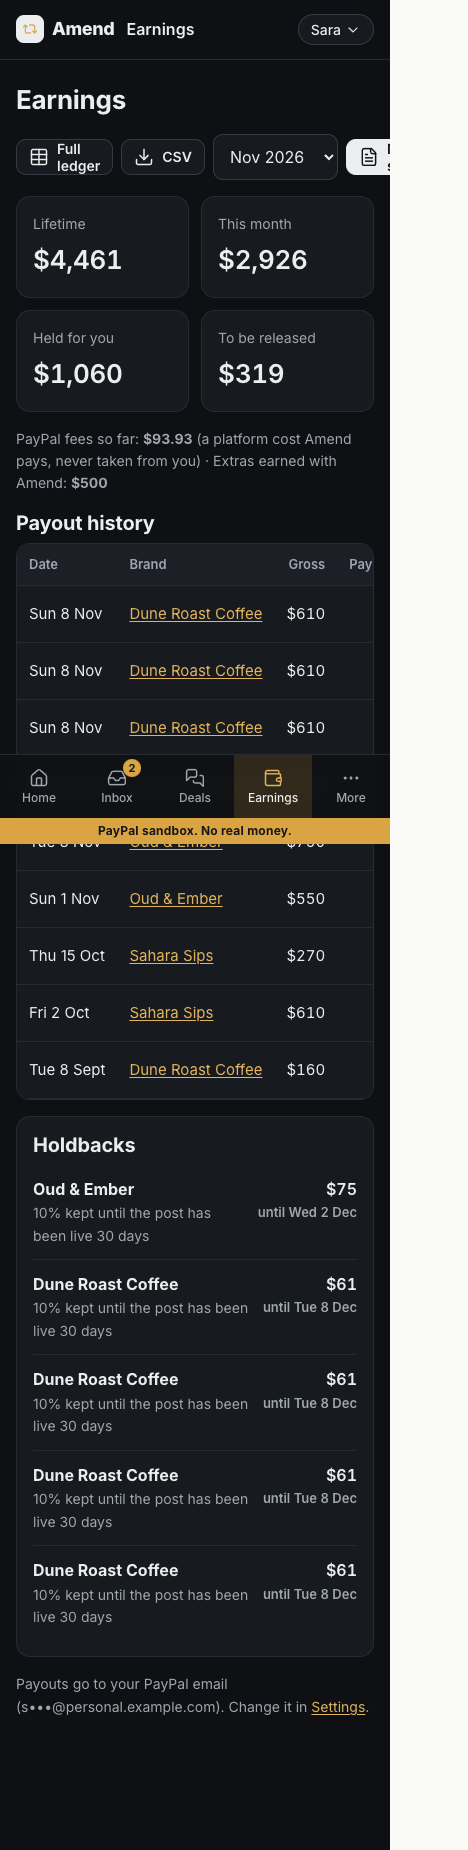
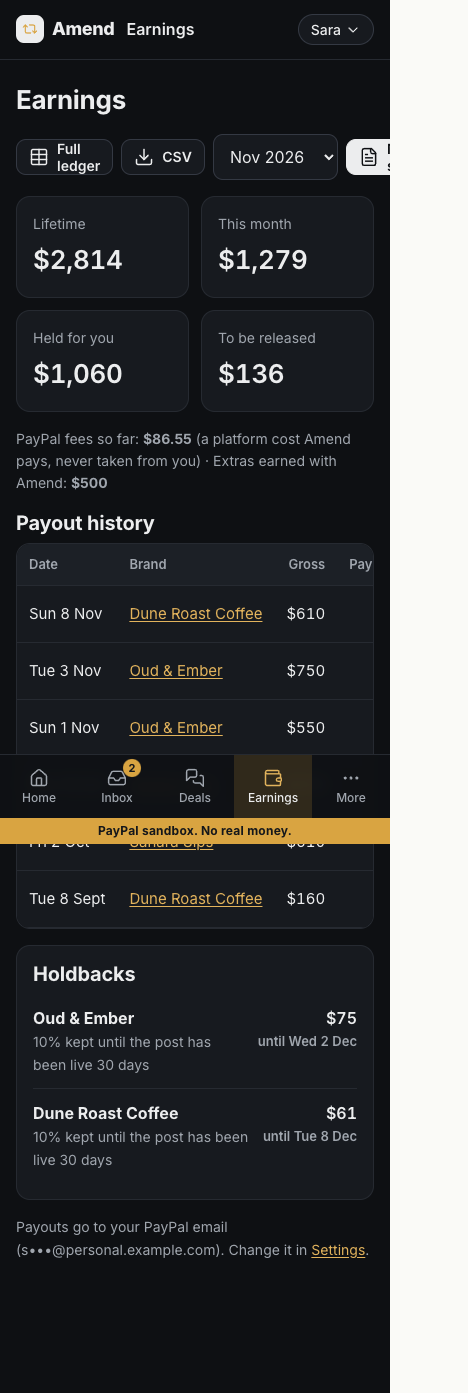
Flag test-run deals (local + live, dry run first); re-shoot Earnings and Ledger
mark_test_deals.py: dry run by default, --apply, --keep. final_shots.py --only-earnings.
Earnings Dune Roast rows on Sun 8 Nov: local 4 -> 1, live 4 -> 0.

diff --git a/scripts/mark_test_deals.py b/scripts/mark_test_deals.py
@@ -1,11 +1,13 @@
-"""Flag our own live test-run deals (is_test = 1) so they stay out of the demo creator's Earnings, Ledger and Inbox.
-Nothing is deleted: the deals, money items and events stay for the record (docs/live-walk.md).
+"""Flag our own test-run deals (is_test = 1) so they stay out of @sara.eats' Earnings, Ledger, Inbox, Home and owed
+balance. Nothing is deleted: the deals, money items and events stay for the record (docs/live-walk.md).
 
-    .venv/bin/python -m scripts.mark_test_deals              # list what would be flagged
-    .venv/bin/python -m scripts.mark_test_deals --apply      # flag them
+    .venv/bin/python -m scripts.mark_test_deals                   # dry run: list what would be flagged
+    .venv/bin/python -m scripts.mark_test_deals --apply           # flag them
+    .venv/bin/python -m scripts.mark_test_deals --keep <deal id>  # leave one deal visible (e.g. the screenshot deal)
 
-Only the deal ids listed below (the 8 Nov live walks) are touched, and only if they belong to @sara.eats and are
-neither seeded demo history nor /try deals.
+Which deals: @sara.eats deals that are neither seeded demo history (is_demo) nor /try deals (is_try). On the live
+database these are only our own walks (8 Nov: …fe0a, …d858, …144e, …50a7, …eecc); on a local screenshot database they
+are the repeated screenshot runs. The database is the one in DATABASE_URL.
 """
 from __future__ import annotations
 
@@ -13,22 +15,27 @@ import sys
 
 from amend.db import get_db
 
-LIVE_WALK_SUFFIXES = ("fe0a", "d858", "144e", "50a7", "eecc")  # Story 1, Story 1→3, Story 2, Story 2 rerun, S102 rerun
-
 
 def main() -> None:
     db = get_db()
-    rows = db.all("select d.id, d.status, d.total_cents, d.is_test from deals d join creators c on c.id = d.creator_id "
-                  "where c.handle = 'sara.eats' and d.is_demo = 0 and d.is_try = 0")
-    pick = [r for r in rows if r["id"].endswith(LIVE_WALK_SUFFIXES)]
-    for r in pick:
-        print(f"  …{r['id'][-4:]}  {r['status']:<12} ${r['total_cents'] / 100:,.0f}  is_test={r['is_test']}")
+    keep = {sys.argv[i + 1] for i, a in enumerate(sys.argv) if a == "--keep" and i + 1 < len(sys.argv)}
+    try:
+        db.one("select is_test from deals limit 1")
+    except Exception:
+        print("this database has no is_test column yet: deploy the new code first (the column is added at startup)")
+        raise SystemExit(1)
+    rows = db.all("select d.id, d.status, d.total_cents, d.is_test, d.created_at from deals d join creators c on c.id = d.creator_id "
+                  "where c.handle = 'sara.eats' and d.is_demo = 0 and d.is_try = 0 order by d.created_at")
+    pick = [r for r in rows if not r["is_test"] and r["id"] not in keep and not any(r["id"].endswith(k) for k in keep)]
+    for r in rows:
+        mark = "keep" if r not in pick and not r["is_test"] else ("already flagged" if r["is_test"] else "FLAG")
+        print(f"  …{r['id'][-4:]}  {r['created_at'][:16]}  {r['status']:<11} ${r['total_cents'] / 100:,.0f}  {mark}")
     if "--apply" not in sys.argv:
-        print(f"{len(pick)} deal(s) would be flagged. Run with --apply to flag them.")
+        print(f"dry run: {len(pick)} deal(s) would be flagged. Add --apply to flag them.")
         return
     for r in pick:
         db.update("deals", "id", r["id"], {"is_test": 1})
-        db.log_event("deal.flagged_test", actor="admin", deal_id=r["id"], payload={"why": "live test walk, 8 Nov"})
+        db.log_event("deal.flagged_test", actor="admin", deal_id=r["id"], payload={"why": "our own test run"})
     print(f"flagged {len(pick)} deal(s)")
 
 

diff --git a/tests/browser/final_shots.py b/tests/browser/final_shots.py
@@ -18,7 +18,9 @@ ROOT = Path(__file__).resolve().parents[2]
 sys.path.insert(0, str(ROOT))
 from amend.config import get_settings  # noqa: E402
 
-BASE = sys.argv[1]
+BASE = sys.argv[1]  # optional: --only-earnings (re-shoot 07 and 07b on the current data)
+# Each full run creates a new demo deal; flag earlier runs with scripts/mark_test_deals.py --keep <latest> so the
+# Earnings and Ledger screenshots show one deal, not one per run.
 OUT = ROOT / "docs" / "screenshots" / "final"
 OUT.mkdir(parents=True, exist_ok=True)
 PW = get_settings().amend_demo_password.get_secret_value()
@@ -76,6 +78,9 @@ def main() -> None:
                 pg.screenshot(path=str(OUT / f"{name}-{w}-{scheme}.png"), full_page=not focus)
             print("  saved", name, flush=True)
 
+        if "--only-earnings" in sys.argv:  # re-shoot 07 and 07b only, without driving (and creating) another deal
+            snap("07-earnings", "sara", "/studio/earnings"); snap("07b-ledger", "sara", "/studio/ledger")
+            b.close(); print("problems:", problems or "none"); print("JS errors:", errs[:4] or "none"); return
         snap("01-marketing", "brand", "/")
         r = sara.evaluate("""async () => (await fetch('/api/deals', {method: 'POST', headers: {'Content-Type': 'application/json'},
                              body: JSON.stringify({brand_org: 'Dune Roast Coffee', contact_name: 'Nadia'})})).json()""")

diff --git a/docs/progress.md b/docs/progress.md
@@ -304,3 +304,6 @@ Next: Block 7.
 6. Wording: "Posted Sun 8 Nov"; "Nadia accepted the earlier post date"; "Price from Sara's list".
 7. Brand link header: "Save your account" (phones: "Save account") instead of "Sign in".
 - Tests: 541 passed, 3 skipped (`tests/test_review_fixes.py`). Final screenshots re-shot, no problems, no JS errors.
+- **Item 5 made visible (8 Nov, late):** the 4 identical Sun 8 Nov Dune Roast rows in the final screenshots were the screenshot script's own runs (each run makes a new $610 deal). `scripts/mark_test_deals.py` (dry run by default, `--apply`, `--keep <id>`): flags @sara.eats deals that are neither demo history nor /try.
+  - Local screenshot DB: flagged 3 earlier runs, kept the latest. Earnings rows 9 → 6, Dune Roast on Sun 8 Nov **4 → 1**, Dune Roast holdbacks 4 → 1, ledger rows 65 → 38. 07 and 07b re-shot (`final_shots.py --only-earnings`).
+  - Live DB: dry run listed exactly the 5 live walks (…fe0a, …d858, …144e, …50a7, …eecc), then flagged. Earnings rows 9 → 5, Dune Roast on Sun 8 Nov **4 → 0**, owed $19 → $0, ledger rows 59 → 29.
